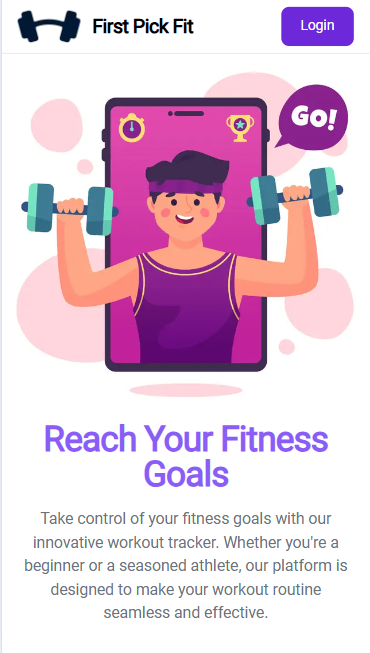
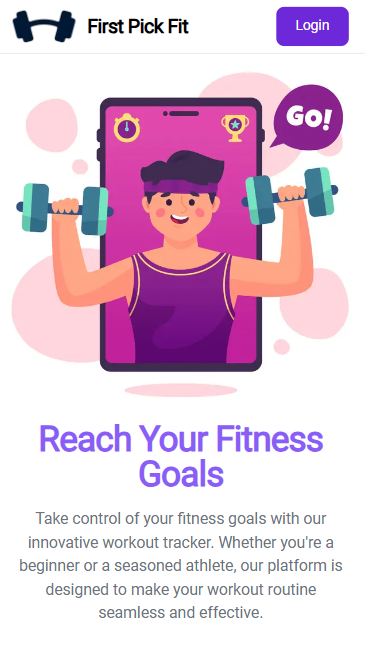
updated images on mobile view

diff --git a/src/data.tsx b/src/data.tsx
@@ -66,7 +66,7 @@ export const projects: Project[] = [
     {
         name: 'First Pick Fit',
         pc_image: '/first_pick_fit.PNG',
-        mobile_images: ['/kick_realm_mobile.PNG'],
+        mobile_images: ['/first_pick_fit.PNG', '/first_pick_fit_mobile_0.PNG'],
         info: 'A fitness tracker with drag-and-drop functionality for easy workout creation & tracking. Features an intuitive user interface to quickly create and schedule workouts, programs and exercises.',
         liveLink: 'https://first-pick-fit.vercel.app/',
         codeLink: 'https://github.com/enzorod10/first-pick-fit',
@@ -75,7 +75,7 @@ export const projects: Project[] = [
     {
         name: 'Interactive Playroom',
         pc_image: '/interactive_playroom.PNG',
-        mobile_images: ['/kick_realm_mobile.PNG'],
+        mobile_images: ['/interactive_playroom.PNG'],
         info: 'A dynamic collection of engaging mini-games, including Stick Hero, Battleship, Wordle, Hangman, Trivia, and a puzzle game. This project showcases creative game design and development, offering interactive experiences that combine strategy, skill, and fun for players of all ages.',
         liveLink: 'https://games-beta-two.vercel.app/',
         codeLink: 'https://github.com/enzorod10/Interactive-Playroom',
@@ -84,8 +84,8 @@ export const projects: Project[] = [
     {
         name: 'Solteract',
         pc_image: '/solteract.PNG',
-        mobile_images: ['/kick_realm_mobile.PNG'],
-        info: 'A social media platform that gives users the ability to express themselves in their own personal space. Inspired by twitter. Users have their own timelines & feeds, are able to communicate with each other through transmissions (tweets) which can be text and/or media. Users can customize their profile name, username, header, & profile picture.',
+        mobile_images: ['/solteract.PNG'],
+        info: 'A social media platform that gives users the ability to express themselves in their own personal space. Inspired by twitter. Users have their own timelines & feeds, are able to communicate with each other through transmissions (tweets) which can be text and/or media.',
         liveLink: 'https://soterak-1f634.web.app/',
         codeLink: 'https://github.com/enzorod10/solteract',
         techUsed: createTechnologiesArr(['React', 'Firebase'])

diff --git a/src/components/About.tsx b/src/components/About.tsx
@@ -5,7 +5,7 @@ function About(){
     return(
         <div className='p-5 pb-0 flex flex-col gap-5 justify-center max-w-3xl mx-auto'>
             <div className='flex justify-center items-center gap-5 md:gap-0'>
-                <div className='w-2/5 flex justify-center'>
+                <div className='w-2/5 flex justify-center '>
                     <img className='w-48' src={sampleImage.src} alt='sample' />
                 </div>
                 <div className="text-slate-100 w-3/5">
@@ -26,7 +26,7 @@ function About(){
                     </div>
                     {technologiesUsed.map((tech, index) => {
                         return(
-                            <div key={index} className="flex flex-col gap-0.5 justify-center items-center text-white text-xs text-italic">
+                            <div key={index} className="flex flex-col gap-0.5 justify-center items-center text-white text-xs sm:text-sm text-italic">
                                 <img className="w-6" src={tech.image} alt={tech.name}/>
                                 <div >{tech.name}</div>
                             </div>

diff --git a/src/components/Project.tsx b/src/components/Project.tsx
@@ -76,8 +76,10 @@ const OpenedProject = ({ project, setOpenProject }: { project: ProjectType, setO
             <DialogDescription className='text-left'>
               {project.info}
             </DialogDescription>
-            <div className='overflow-hidden border border-slate-500 rounded-md p-2 flex flex-col gap-2'>
-              <img className='h-64 object-cover w-full rounded-md rounded-md' src={project.mobile_images[highlightedIndex]} alt={project.name} />
+            <div className='overflow-hidden border border-slate-300 rounded-md p-2 flex flex-col gap-2'>
+              <div className='h-48 overflow-auto'>
+                <img className='object-fit w-full rounded-md rounded-md' src={project.mobile_images[highlightedIndex]} alt={project.name} />
+              </div>
               <div className='flex justify-center gap-2'>
                 {project.mobile_images.map((image, index) => {
                   return (

diff --git a/src/components/PortfolioHeader.tsx b/src/components/PortfolioHeader.tsx
@@ -67,7 +67,7 @@ function PortfolioHeader(props){
           <img src={blackLogo.src} alt='Enzo Logo' />
         </div>
         {props.windowSize.width && props.windowSize.width > 800 ? 
-          <div className='directory'>
+          <div className='directory text-lg'>
             <div onClick={() => props.scrollIntoDiv('about')}>
               ABOUT
             </div>
